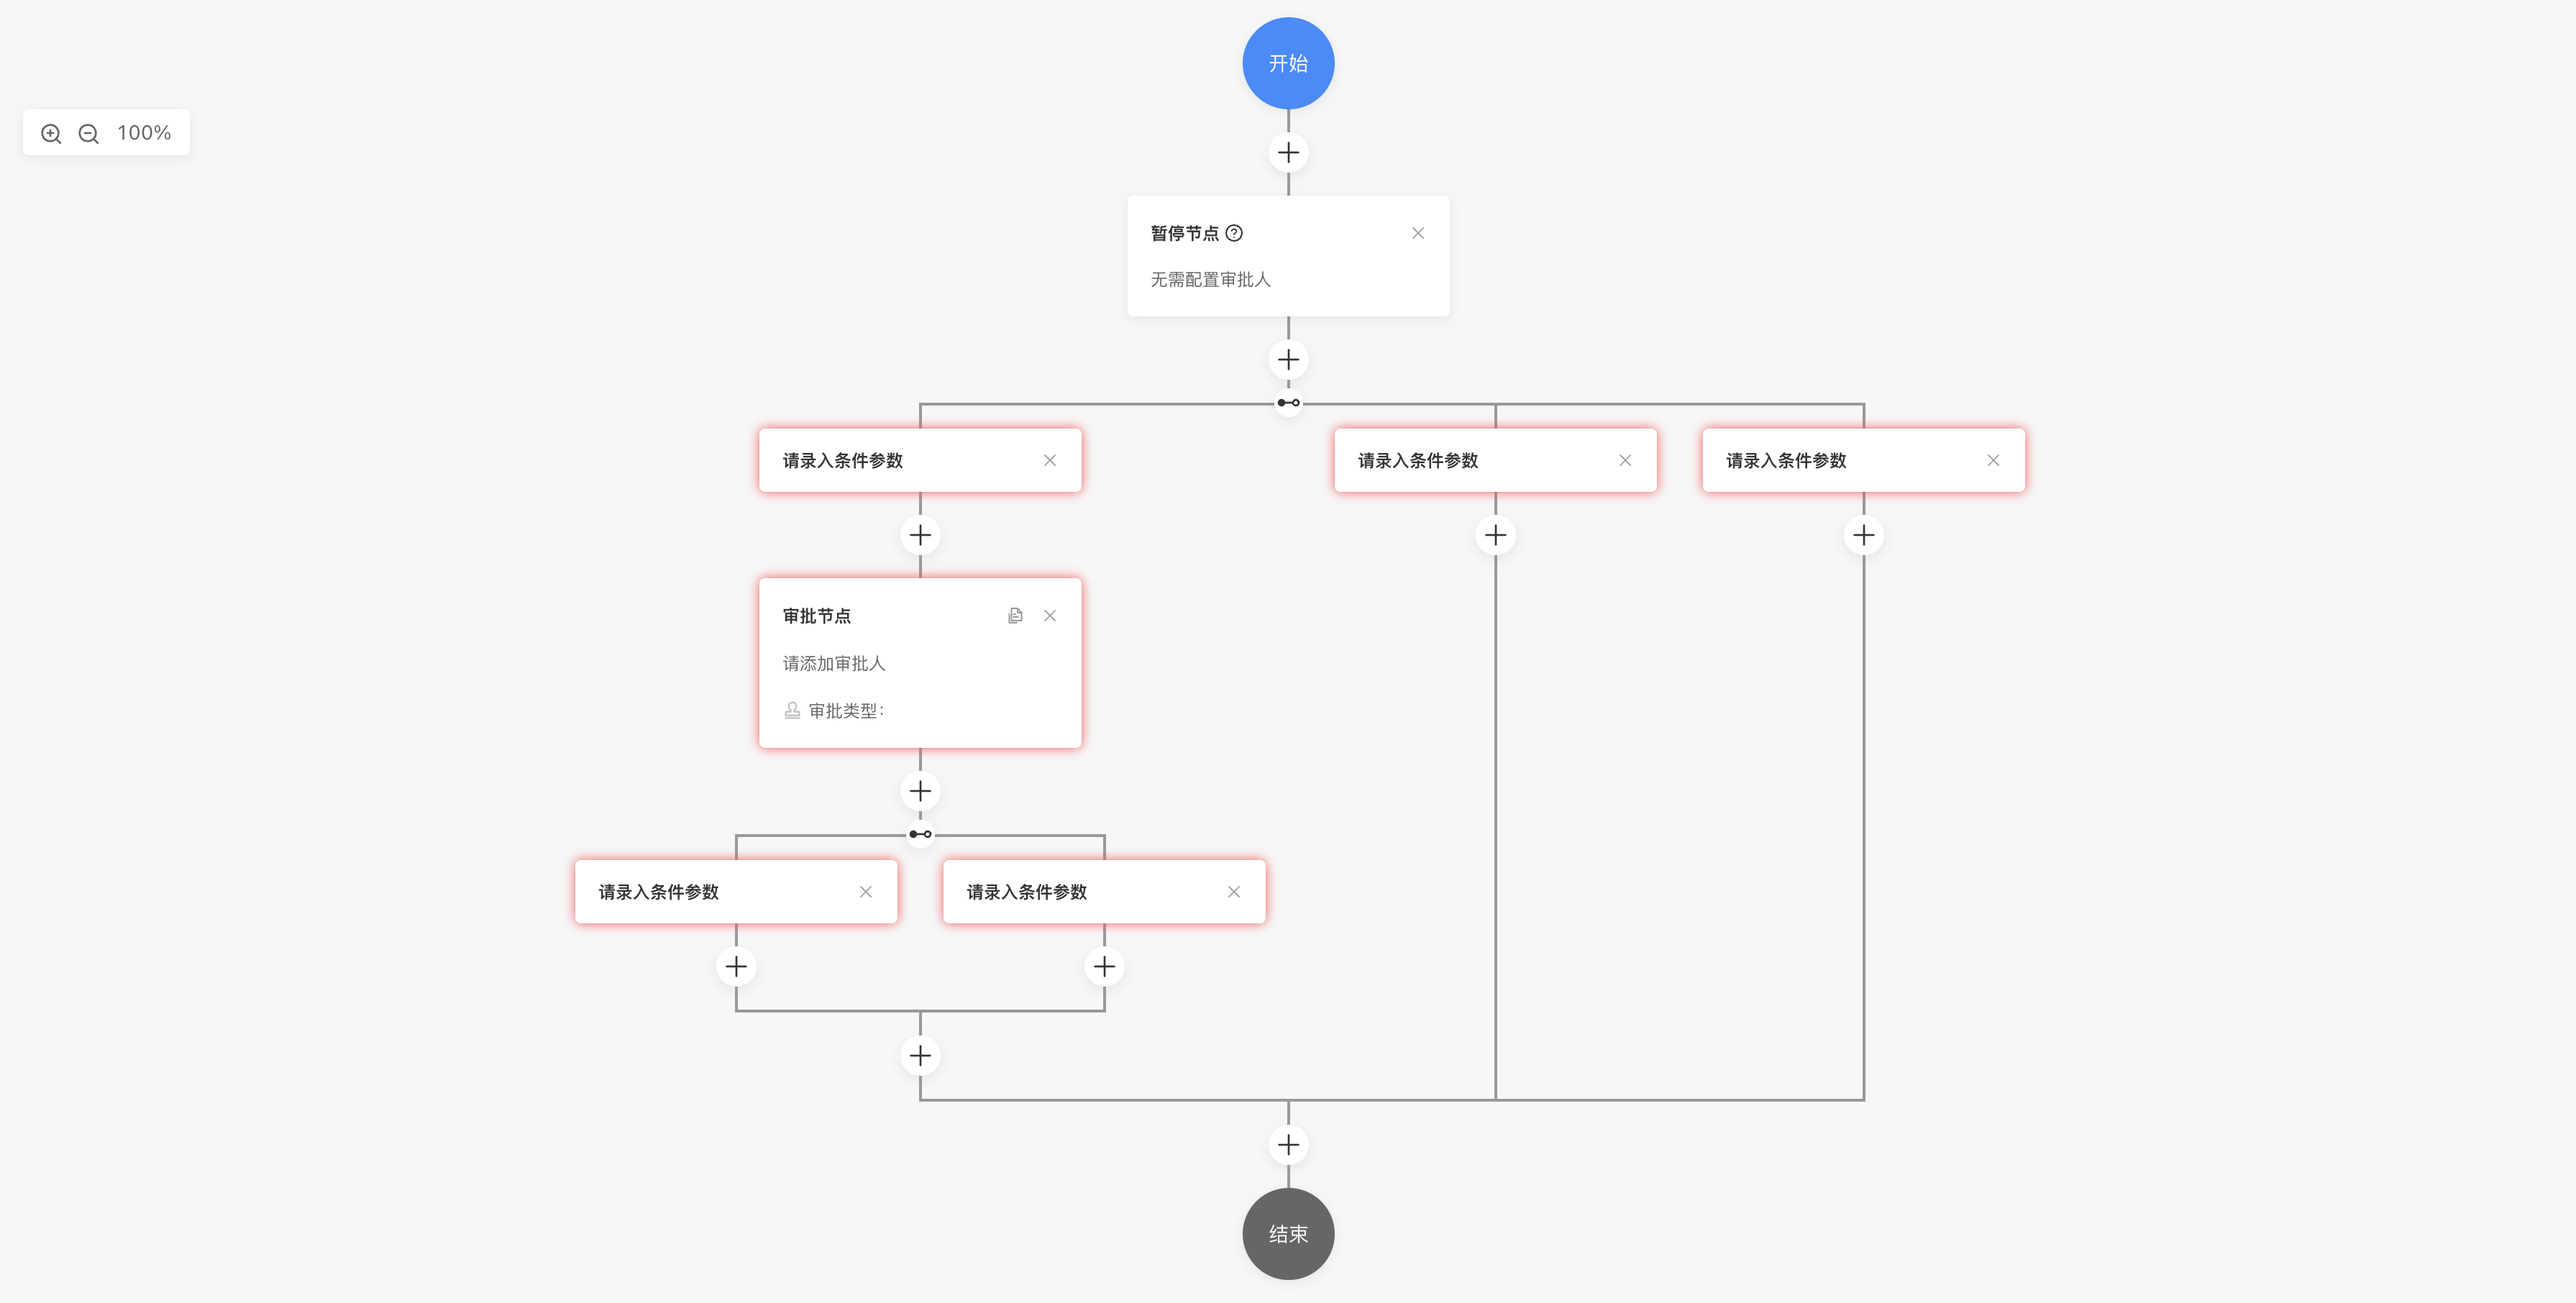
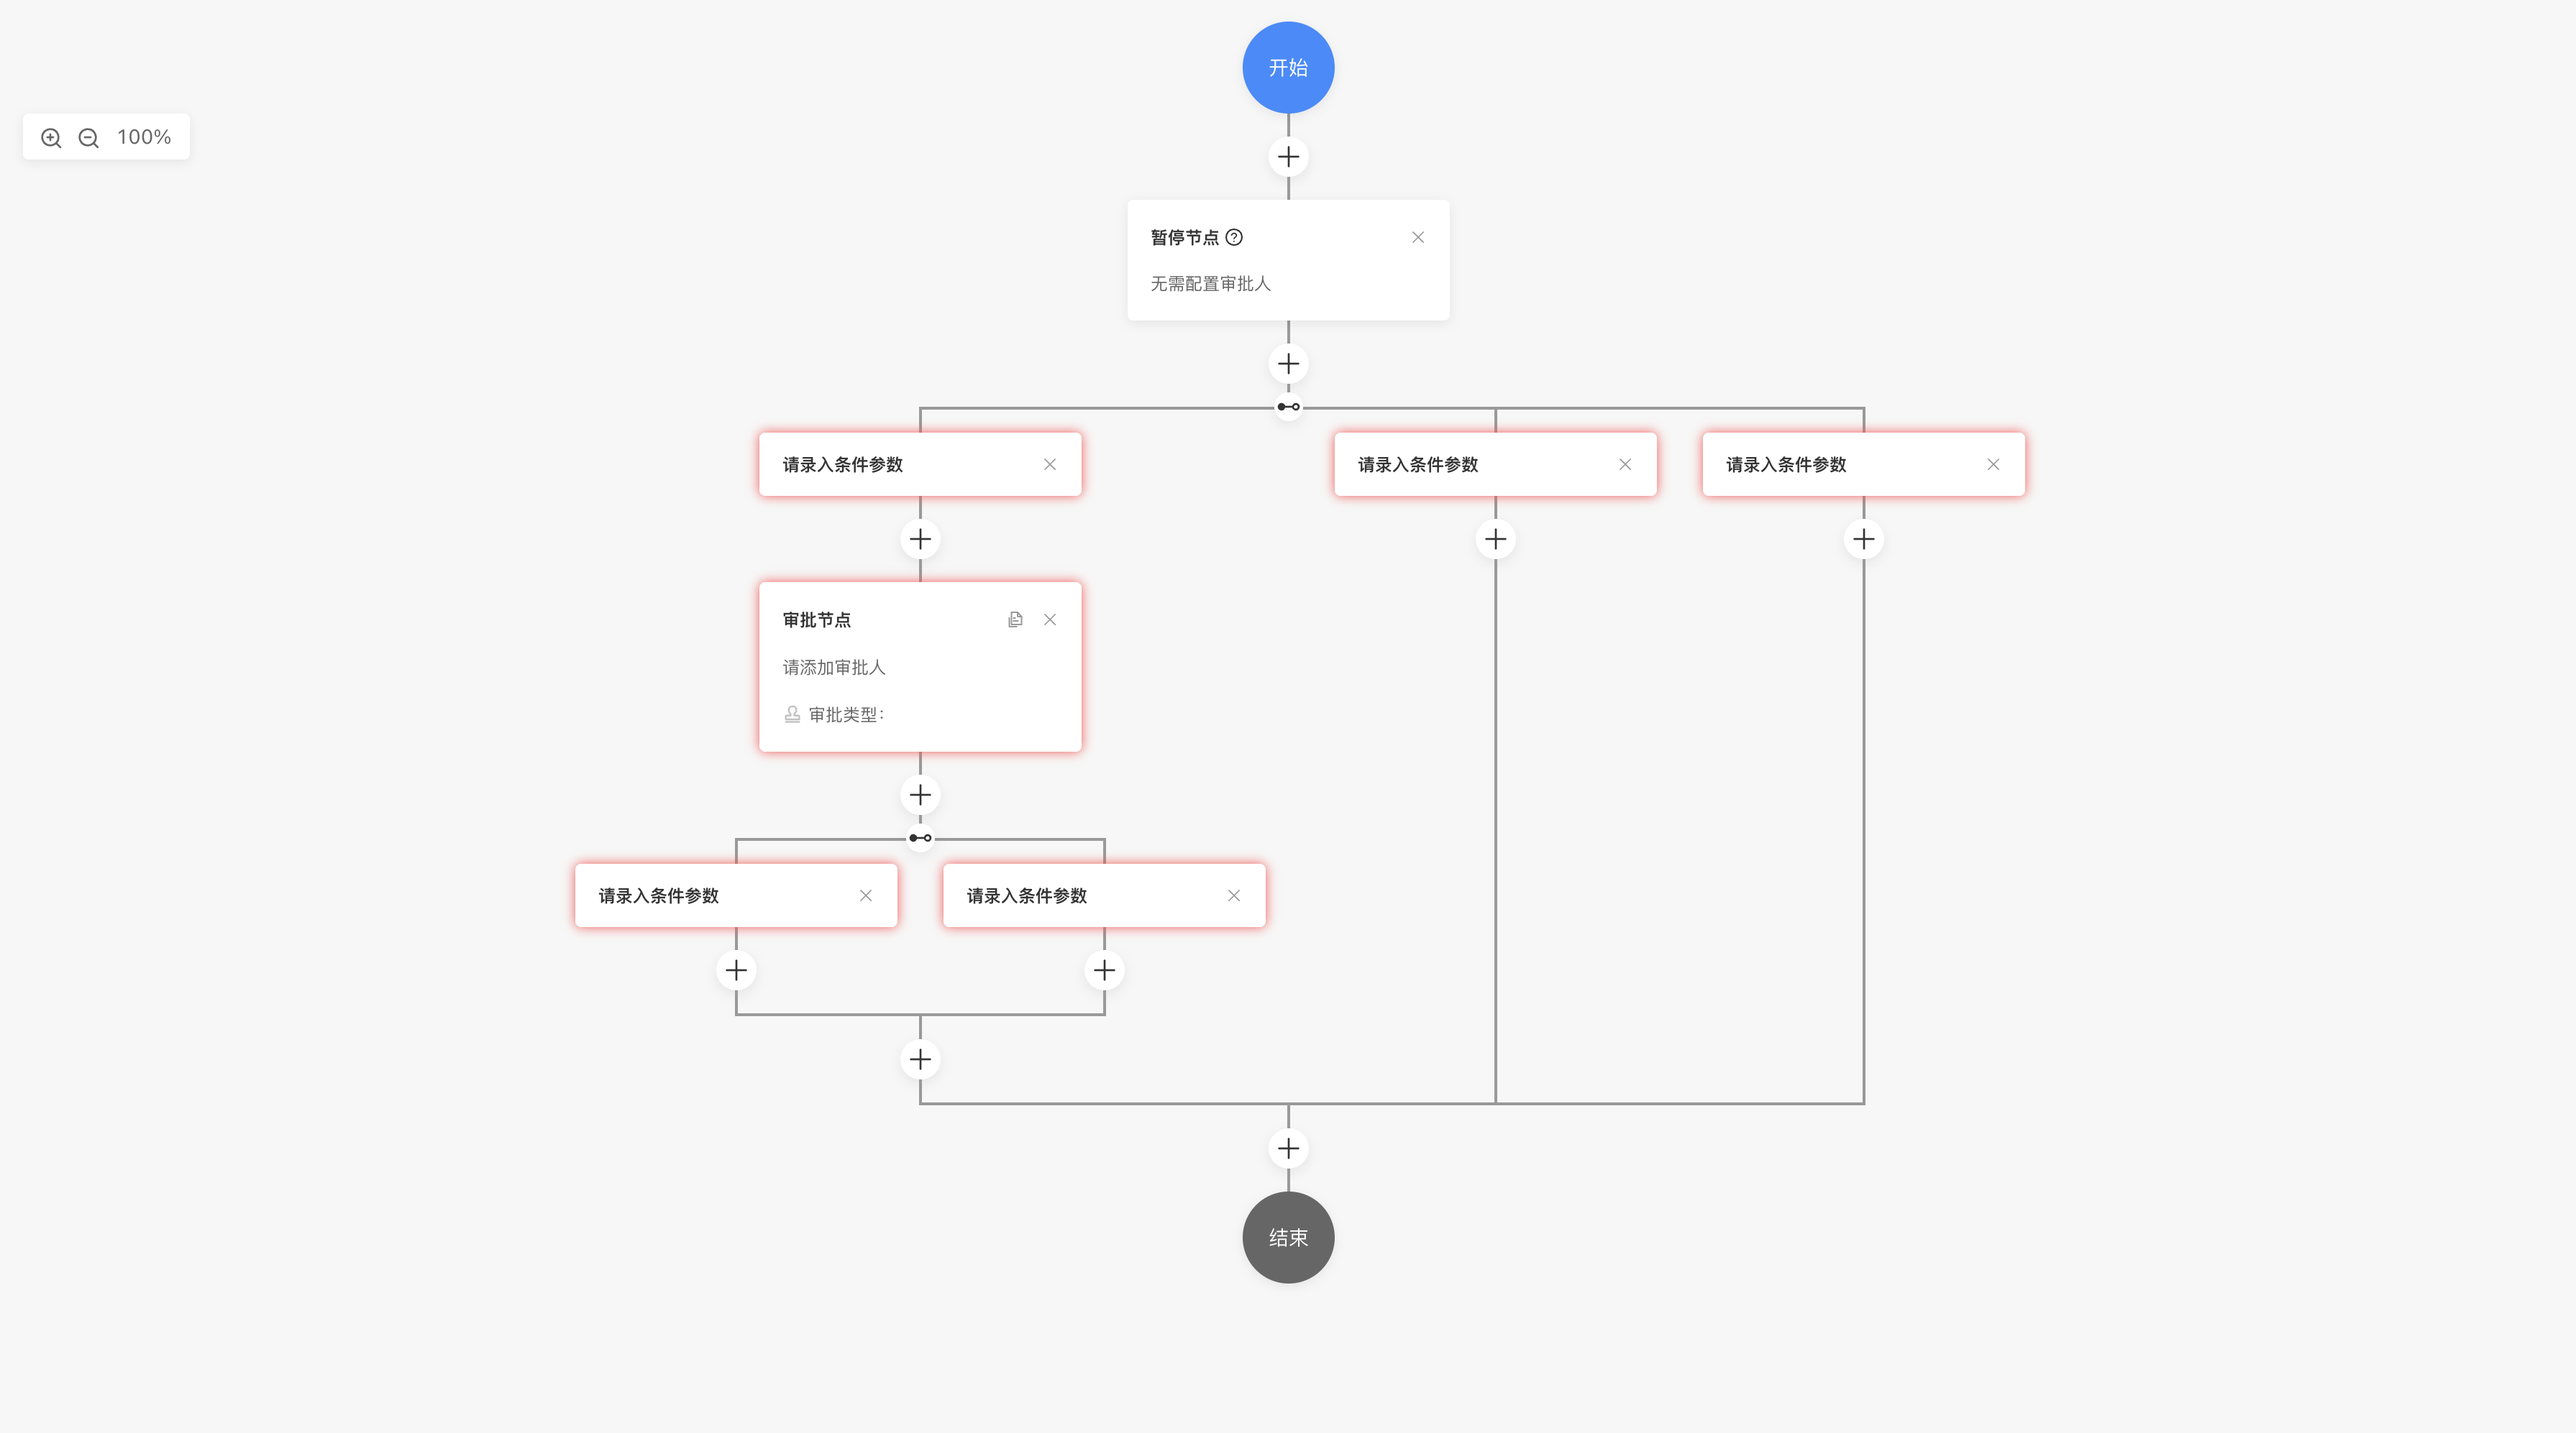
fix: en image

diff --git a/README.md b/README.md
@@ -4,8 +4,8 @@ English | [简体中文](https://github.com/bytedance/flow-builder/blob/main/REA
 
 A highly customizable streaming flow builder. The registration ability can flexibly customize your nodes, different types of node display and form, etc.
 
-| ![demo1](./public/demo1.png) | ![demo2](./public/demo2.png) |
-| ---------------------------- | ---------------------------- |
+| ![demo1](./public/demo1-en.png) | ![demo2](./public/demo2-en.png) |
+| ------------------------------- | ------------------------------- |
 
 ## Try it out
 
